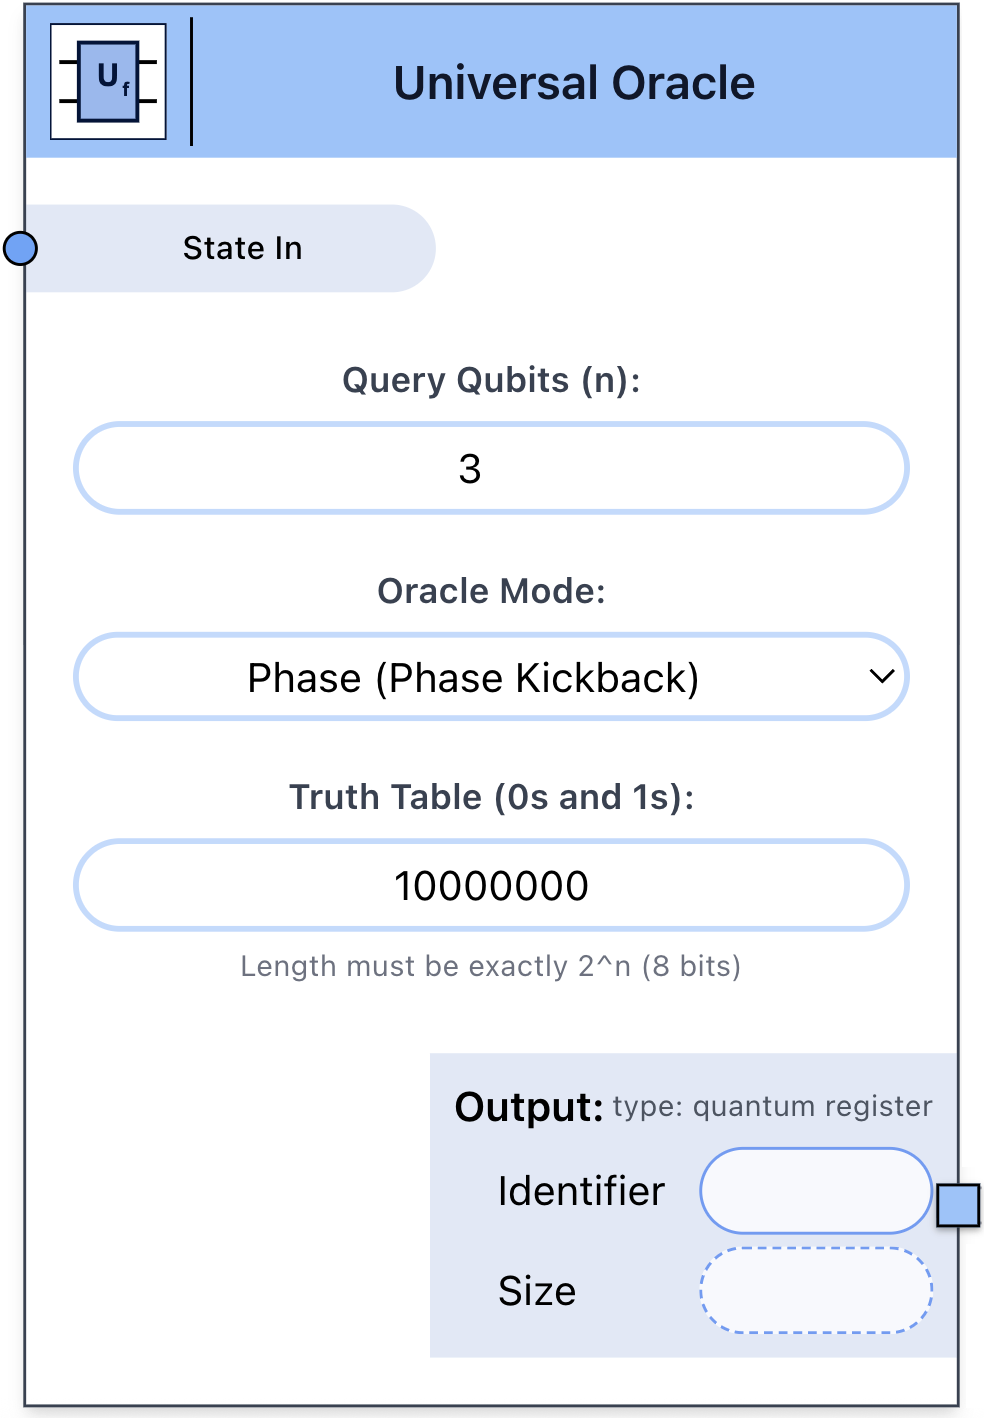
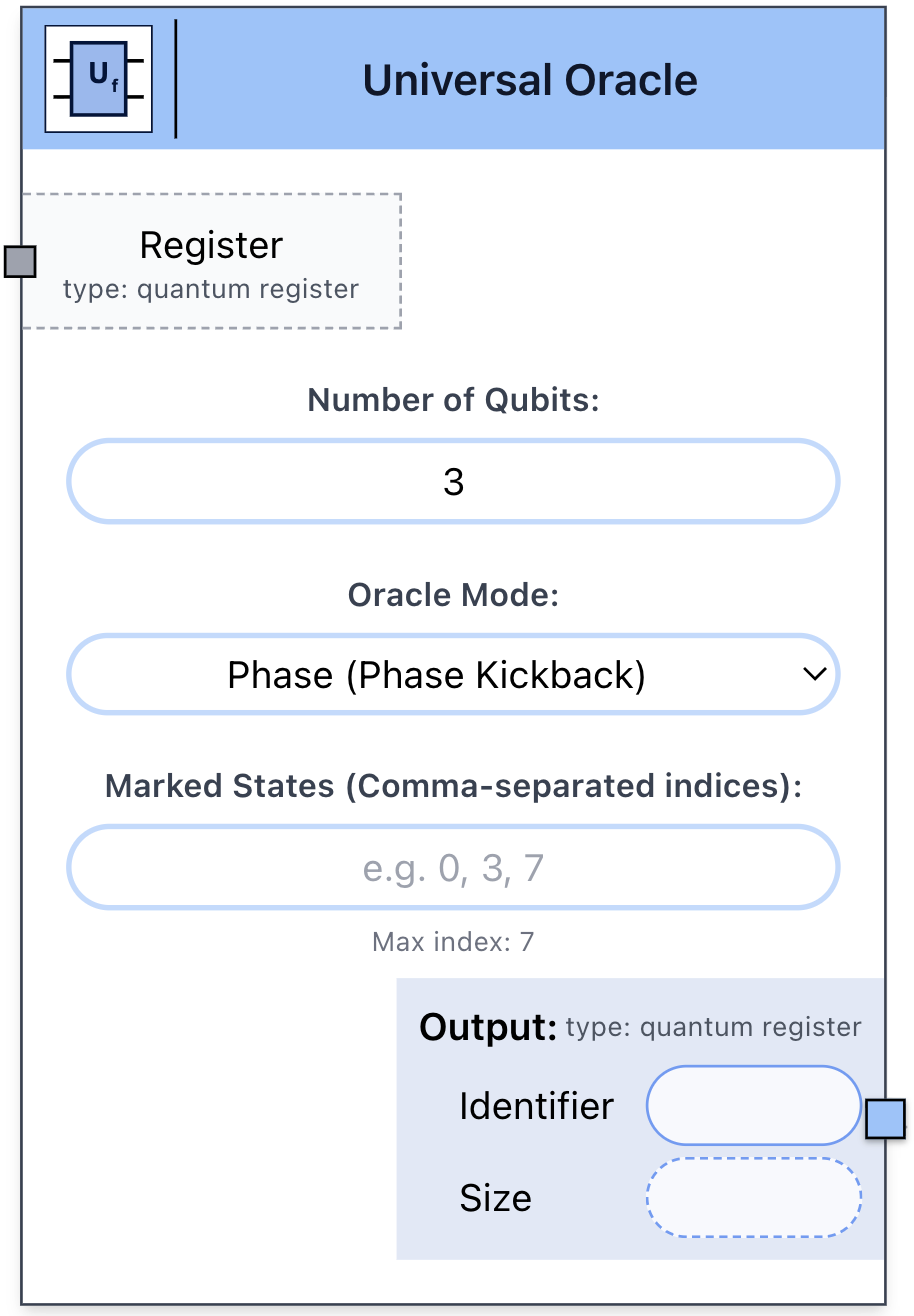
universal oracle & diffuser ui fixes

diff --git a/src/components/nodes/GroverDiffuserNode.tsx b/src/components/nodes/GroverDiffuserNode.tsx
@@ -5,7 +5,6 @@ import { shallow } from "zustand/shallow";
 import { cn } from "@/lib/utils";
 import { motion } from "framer-motion";
 import OutputPort from "../utils/outputPort"; 
-import { quantumConstructColor } from "@/constants";
 
 const selector = (state: any) => ({
   updateNodeValue: state.updateNodeValue,
@@ -29,6 +28,9 @@ export const GroverDiffuserNode = memo((node: Node) => {
     updateNodeValue(id, field, value);
     setSelectedNode(node);
   };
+
+  // Determine if the input port is actively connected
+  const isConnected = edges.some(edge => edge.target === id && edge.targetHandle === `quantumHandleInput0${id}`);
 
   return (
     <motion.div
@@ -60,26 +62,38 @@ export const GroverDiffuserNode = memo((node: Node) => {
             </div>
           </div>
 
-          {/* QUANTUM INPUT PORT (SQUARED OFF) */}
-          <div className="mt-3 flex flex-col space-y-2">
+          {/* QUANTUM INPUT PORT */}
+          <div className="mt-4 flex flex-col space-y-2">
             <div
-              className="relative p-1"
+              className={cn(
+                "relative p-2 flex items-center",
+                isConnected 
+                  ? "" 
+                  : "border border-l-0 border-dashed border-gray-400"
+              )}
               style={{
-                backgroundColor: quantumConstructColor, // Blue
                 width: '140px',
-                borderTopRightRadius: '4px',
-                borderBottomRightRadius: '4px',
+                backgroundColor: isConnected ? "rgba(105, 145, 210, 0.2)" : "#f9fafb"
               }}
             >
               <Handle
                 type="target"
                 id={`quantumHandleInput0${id}`}
                 position={Position.Left}
-                className="z-10 !bg-blue-400 !border-black -left-[8px]"
+                className={cn(
+                  "z-10 !rounded-none !border-black -left-[7px]",
+                  isConnected ? "!bg-blue-400" : "!bg-gray-400"
+                )}
                 style={{ width: 12, height: 12 }}
+                isConnectable={!isConnected}
               />
-              <div className="flex flex-col items-center w-full leading-tight pl-2">
-                <span className="text-black text-[11px] font-medium">State In</span>
+              <div className="flex flex-col w-full text-center leading-tight">
+                <span className="text-black text-sm truncate">
+                  {node.data.inputs?.[0]?.outputIdentifier || "Register"}
+                </span>
+                <span className="text-[10px] text-gray-600">
+                  type: quantum register
+                </span>
               </div>
             </div>
           </div>
@@ -91,7 +105,7 @@ export const GroverDiffuserNode = memo((node: Node) => {
               <input
                 type="text"
                 inputMode="numeric"
-                className="w-full p-2 mt-1 text-sm text-center text-black border-2 border-blue-200 rounded-full outline-none focus:border-blue-400 transition-colors"
+                className="w-full p-1 mt-1 text-sm text-center text-black border-2 border-blue-200 rounded-full outline-none focus:border-blue-400 transition-colors"
                 value={numQubitsStr}
                 onChange={(e) => {
                   const val = e.target.value.replace(/[^0-9]/g, "");

diff --git a/src/components/nodes/UniversalOracleNode.tsx b/src/components/nodes/UniversalOracleNode.tsx
@@ -5,7 +5,6 @@ import { shallow } from "zustand/shallow";
 import { cn } from "@/lib/utils";
 import { motion } from "framer-motion";
 import OutputPort from "../utils/outputPort"; 
-import { quantumConstructColor } from "@/constants";
 
 const selector = (state: any) => ({
   updateNodeValue: state.updateNodeValue,
@@ -31,6 +30,9 @@ export const UniversalOracleNode = memo((node: Node) => {
     updateNodeValue(id, field, value);
     setSelectedNode(node);
   };
+
+  // Determine if the input port is actively connected
+  const isConnected = edges.some(edge => edge.target === id && edge.targetHandle === `quantumHandleInput0${id}`);
 
   return (
     <motion.div
@@ -62,32 +64,44 @@ export const UniversalOracleNode = memo((node: Node) => {
             </div>
           </div>
 
-          {/* QUANTUM INPUT PORT (Blue) - SQUARED OFF */}
+          {/* QUANTUM INPUT PORT */}
           <div className="mt-4 flex flex-col space-y-2">
             <div
-              className="relative p-2"
+              className={cn(
+                "relative p-2 flex items-center",
+                isConnected 
+                  ? ""
+                  : "border border-l-0 border-dashed border-gray-400"
+              )}
               style={{
-                backgroundColor: quantumConstructColor,
                 width: '140px',
-                borderTopRightRadius: '4px',
-                borderBottomRightRadius: '4px',
+                backgroundColor: isConnected ? "rgba(105, 145, 210, 0.2)" : "#f9fafb"
               }}
             >
               <Handle
                 type="target"
                 id={`quantumHandleInput0${id}`}
                 position={Position.Left}
-                className="z-10 !bg-blue-400 !border-black -left-[8px]"
+                className={cn(
+                  "z-10 !rounded-none !border-black -left-[7px]",
+                  isConnected ? "!bg-blue-400" : "!bg-gray-400"
+                )}
                 style={{ width: 12, height: 12 }}
+                isConnectable={!isConnected}
               />
-              <div className="flex flex-col items-center w-full leading-tight pl-2">
-                <span className="text-black text-[11px] font-medium">State In</span>
+              <div className="flex flex-col w-full text-center leading-tight">
+                <span className="text-black text-sm truncate">
+                  {node.data.inputs?.[0]?.outputIdentifier || "Register"}
+                </span>
+                <span className="text-[10px] text-gray-600">
+                  type: quantum register
+                </span>
               </div>
             </div>
           </div>
 
           {/* CONFIGURATION BODY */}
-          <div className="px-4 py-1 mt-3">
+          <div className="px-4 py-1 mt-2">
             <div>
               <label className="text-xs font-semibold text-gray-700">Number of Qubits:</label>
               <input
